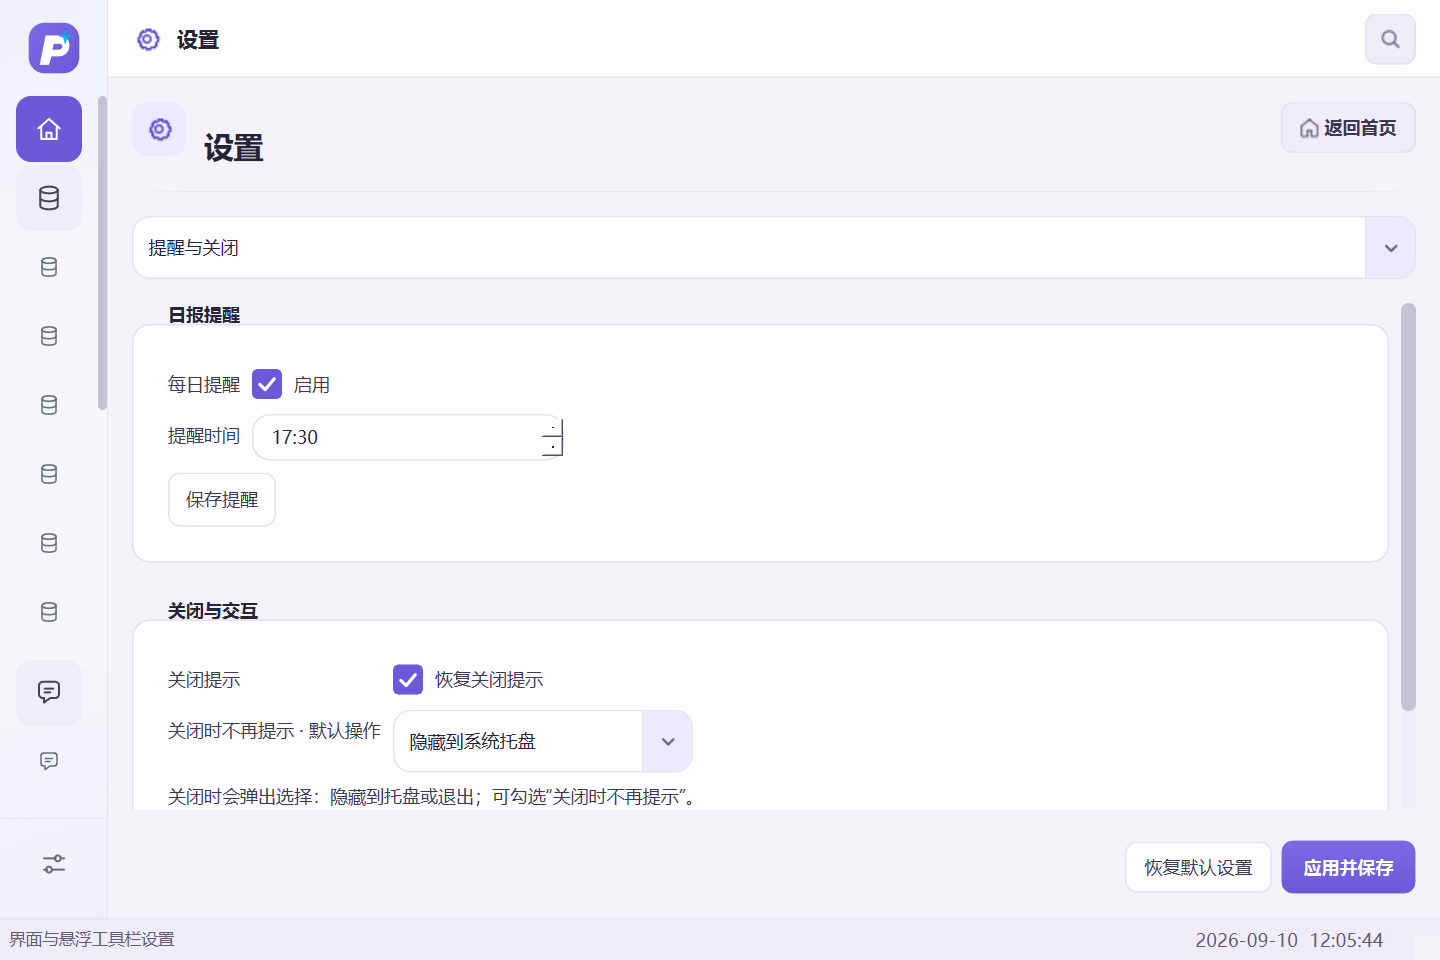
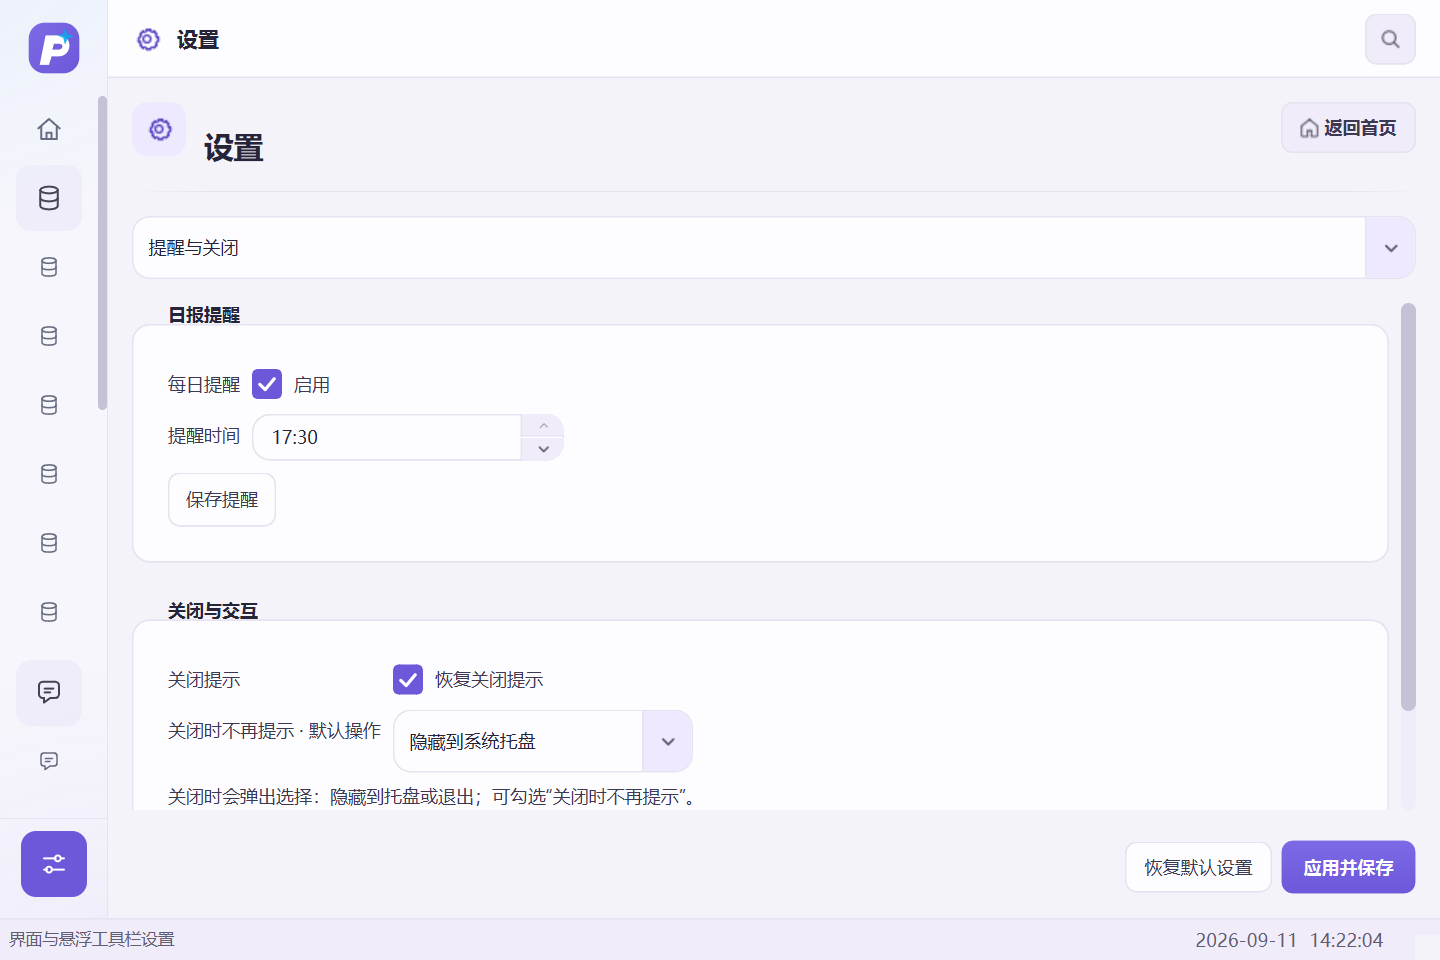
fix(ui): unify Prism model list and reminder time controls

diff --git a/docs/ui/prism-implementation-2026-09/shell/index.html b/docs/ui/prism-implementation-2026-09/shell/index.html
@@ -125,9 +125,9 @@ article[hidden]{display:none}@media(max-width:800px){main{grid-template-columns:
 <a href="nav-7-960-640-tab-1.png" target="_blank"><img src="nav-7-960-640-tab-1.png" loading="lazy" alt="设置 · 页签 2 960 × 640"></a>
 <div class="caption"><h2>设置 · 页签 2</h2><p>960 × 640 · 已记录网页就绪与选中状态</p>
 <a href="nav-7-960-640-tab-1.json" target="_blank">查看运行记录</a></div></article>
-<article data-label="模块 7 · 页签 3" data-checked="false">
-<a href="nav-7-960-640-tab-2.png" target="_blank"><img src="nav-7-960-640-tab-2.png" loading="lazy" alt="模块 7 · 页签 3 960 × 640"></a>
-<div class="caption"><h2>模块 7 · 页签 3</h2><p>960 × 640 · 旧采样：未核对网页就绪</p>
+<article data-label="设置 · 页签 3" data-checked="true">
+<a href="nav-7-960-640-tab-2.png" target="_blank"><img src="nav-7-960-640-tab-2.png" loading="lazy" alt="设置 · 页签 3 960 × 640"></a>
+<div class="caption"><h2>设置 · 页签 3</h2><p>960 × 640 · 已记录网页就绪与选中状态</p>
 <a href="nav-7-960-640-tab-2.json" target="_blank">查看运行记录</a></div></article>
 <article data-label="模块 7 · 页签 4" data-checked="false">
 <a href="nav-7-960-640-tab-3.png" target="_blank"><img src="nav-7-960-640-tab-3.png" loading="lazy" alt="模块 7 · 页签 4 960 × 640"></a>
@@ -137,6 +137,10 @@ article[hidden]{display:none}@media(max-width:800px){main{grid-template-columns:
 <a href="nav-7-960-640-tab-4.png" target="_blank"><img src="nav-7-960-640-tab-4.png" loading="lazy" alt="模块 7 · 页签 5 960 × 640"></a>
 <div class="caption"><h2>模块 7 · 页签 5</h2><p>960 × 640 · 旧采样：未核对网页就绪</p>
 <a href="nav-7-960-640-tab-4.json" target="_blank">查看运行记录</a></div></article>
+<article data-label="设置 · 页签 6 · 示例数据" data-checked="true">
+<a href="nav-7-960-640-tab-5-sample.png" target="_blank"><img src="nav-7-960-640-tab-5-sample.png" loading="lazy" alt="设置 · 页签 6 · 示例数据 960 × 640"></a>
+<div class="caption"><h2>设置 · 页签 6 · 示例数据</h2><p>960 × 640 · 已记录网页就绪与选中状态</p>
+<a href="nav-7-960-640-tab-5-sample.json" target="_blank">查看运行记录</a></div></article>
 <article data-label="模块 7 · 页签 6" data-checked="false">
 <a href="nav-7-960-640-tab-5.png" target="_blank"><img src="nav-7-960-640-tab-5.png" loading="lazy" alt="模块 7 · 页签 6 960 × 640"></a>
 <div class="caption"><h2>模块 7 · 页签 6</h2><p>960 × 640 · 旧采样：未核对网页就绪</p>

diff --git a/tests/test_prism_settings_navigation.py b/tests/test_prism_settings_navigation.py
@@ -12,6 +12,59 @@ class SettingsNavigationTests(unittest.TestCase):
         from PyQt6.QtWidgets import QApplication
         cls.app = QApplication.instance() or QApplication([])
 
+    def test_time_step_controls_and_model_selection_survive_theme_size(self):
+        from PyQt6.QtCore import Qt, QTime
+        from PyQt6.QtTest import QTest
+        from PyQt6.QtWidgets import QDateTimeEdit, QStyle, QStyleOptionSpinBox, QAbstractSpinBox
+        from config import DEFAULT_SETTINGS
+        from panels.settings_panel import SettingsPanel
+        from ui.theme_manager import ThemeManager
+        panel = SettingsPanel(dict(DEFAULT_SETTINGS))
+        try:
+            panel.resize(856, 528)
+            panel.apply_layout_mode('narrow', True)
+            panel.show()
+            for font in (13, 16):
+                ThemeManager.instance().apply(self.app, 'calm', font_size=font)
+                panel.section_picker.setCurrentIndex(2)
+                self.app.processEvents()
+                time = panel.reminder_time
+                time.setTime(QTime(17, 30))
+                time.setCurrentSection(QDateTimeEdit.Section.MinuteSection)
+                option = QStyleOptionSpinBox()
+                option.initFrom(time)
+                option.frame = True
+                option.buttonSymbols = time.buttonSymbols()
+                option.stepEnabled = QAbstractSpinBox.StepEnabledFlag.StepUpEnabled | QAbstractSpinBox.StepEnabledFlag.StepDownEnabled
+                up = time.style().subControlRect(QStyle.ComplexControl.CC_SpinBox, option, QStyle.SubControl.SC_SpinBoxUp, time)
+                down = time.style().subControlRect(QStyle.ComplexControl.CC_SpinBox, option, QStyle.SubControl.SC_SpinBoxDown, time)
+                self.assertTrue(time.rect().contains(up))
+                self.assertTrue(time.rect().contains(down))
+                QTest.mouseClick(time, Qt.MouseButton.LeftButton, pos=up.center())
+                self.assertEqual(time.time(), QTime(17, 31))
+                QTest.mouseClick(time, Qt.MouseButton.LeftButton, pos=down.center())
+                self.assertEqual(panel._current_reminder_time_text(), '17:30')
+                time.setEnabled(False)
+                QTest.mouseClick(time, Qt.MouseButton.LeftButton, pos=up.center())
+                self.assertEqual(time.time(), QTime(17, 30))
+                time.setEnabled(True)
+                panel.section_picker.setCurrentIndex(5)
+                panel._refresh_ai_list({'active_model_id': 'demo-a', 'items': [
+                    {'id': 'demo-a', 'name': '示例助手A', 'model': 'demo-one', 'enabled': False},
+                    {'id': 'demo-b', 'name': '示例助手B', 'model': 'demo-two', 'enabled': False},
+                ]})
+                panel.ai_list.setCurrentRow(1)
+                self.app.processEvents()
+                self.assertEqual(panel.ai_name.text(), '示例助手B')
+                self.assertEqual(panel.ai_model.currentText(), 'demo-two')
+                self.assertIn('示例助手B', panel.ai_list.currentItem().toolTip())
+                self.assertGreaterEqual(panel.ai_list.visualItemRect(panel.ai_list.currentItem()).height(), 36)
+                self.assertTrue(panel.save_btn.isVisible())
+        finally:
+            panel.close()
+            panel.deleteLater()
+            self.app.processEvents()
+
     def test_categories_preserve_edits_and_keep_save_visible_at_both_widths(self):
         from config import DEFAULT_SETTINGS
         from panels.settings_panel import SettingsPanel

diff --git a/scripts/diagnostics/prism_shell_preview.py b/scripts/diagnostics/prism_shell_preview.py
@@ -37,14 +37,19 @@ def main(args):
             # Navigate after both WebChannel pages are ready, as a real click
             # would; otherwise the initial chrome payload still selects home.
             window._show_panel(args.nav)
+            panel = window.stack.currentWidget()
             if args.tab is not None:
-                panel = window.stack.currentWidget()
                 if args.nav == 7:
                     panel.section_picker.setCurrentIndex(args.tab)
                 elif hasattr(panel, 'tabs'):
                     panel.tabs.setCurrentIndex(args.tab)
                 else:
                     raise ValueError('This preview page has no supported tab selector')
+            if args.sample and args.nav == 7:
+                panel._refresh_ai_list({'active_model_id': 'preview-a', 'items': [
+                    {'id': 'preview-a', 'name': '示例 · 日常助手', 'model': 'demo-chat', 'enabled': False},
+                    {'id': 'preview-b', 'name': '示例 · 文档校对', 'model': 'demo-review', 'enabled': False},
+                ]})
             window.resize(args.width, args.height)
             window._layout_controller.force(args.width, args.height)
             QTimer.singleShot(1000, inspect_chrome)
@@ -78,6 +83,9 @@ def main(args):
             name = f'nav-{args.nav}-{args.width}-{args.height}' + ('-collapsed' if args.collapsed else '')
             if args.tab is not None:
                 name += f'-tab-{args.tab}'
+            if args.sample and args.nav == 7:
+                name += '-sample'
+                result['sample'] = True
             window.grab().save(str(folder / (name + '.png')))
             (folder / (name + '.json')).write_text(json.dumps(result, ensure_ascii=False, indent=2), encoding='utf-8')
             print(json.dumps(result, ensure_ascii=False), flush=True)

diff --git a/panels/settings_panel.py b/panels/settings_panel.py
@@ -383,6 +383,7 @@ class SettingsPanel(QWidget):
             from PyQt6.QtWidgets import QTimeEdit
             from PyQt6.QtCore import QTime
             self.reminder_time = QTimeEdit()
+            self.reminder_time.setObjectName('settings-reminder-time')
             self.reminder_time.setDisplayFormat('HH:mm')
             size_field_height(self.reminder_time)
             self._reminder_uses_timeedit = True
@@ -505,6 +506,7 @@ class SettingsPanel(QWidget):
         self.ai_group.setProperty('settingsSectionCard', True)
         ai_outer = QVBoxLayout(self.ai_group)
         self.ai_list = QListWidget()
+        self.ai_list.setObjectName('settings-model-list')
         self.ai_list.setMaximumHeight(110)
         self.ai_list.currentItemChanged.connect(self._on_ai_item_changed)
         ai_outer.addWidget(self.ai_list)
@@ -878,6 +880,7 @@ class SettingsPanel(QWidget):
             mark = '★ ' if item.get('id') == data.get('active_model_id') else ''
             label = f"{mark}{item.get('name') or ''} · {item.get('model') or ''}"
             row = QListWidgetItem(label)
+            row.setToolTip(label)
             row.setData(Qt.ItemDataRole.UserRole, item)
             self.ai_list.addItem(row)
             if item.get('id') == current:

diff --git a/ui/theme_manager.py b/ui/theme_manager.py
@@ -396,12 +396,15 @@ class ThemeManager:
             from ui.icons import icon_url, tinted_icon_url
             dropdown_tint = palette.get('TEXT_MUTED') or palette.get('PRIMARY_ACTIVE') or '#8A8A90'
             arrow = tinted_icon_url('dropdown', dropdown_tint) or icon_url('dropdown')
+            up_arrow = tinted_icon_url('chevron-up', dropdown_tint) or icon_url('chevron-up')
             check = icon_url('check')
         except Exception:
             resource_dir = os.path.dirname(self._template_path) if self._template_path else ''
             arrow = os.path.join(resource_dir, 'chevron_down.svg').replace('\\', '/')
+            up_arrow = os.path.join(resource_dir, 'icons', 'chevron-up.svg').replace('\\', '/')
             check = os.path.join(resource_dir, 'check_white.svg').replace('\\', '/')
         qss = qss.replace('__DROPDOWN_ARROW__', arrow).replace('__CHECKMARK__', check)
+        qss = qss.replace('__SPIN_UP_ARROW__', up_arrow)
         try:
             from ui.icons import tinted_icon_url
             branch_tint = palette.get('PRIMARY_ACTIVE') or palette.get('TEXT_STRONG') or '#6C58D9'

diff --git a/scripts/diagnostics/prism_shell_gallery.py b/scripts/diagnostics/prism_shell_gallery.py
@@ -19,6 +19,8 @@ def main():
                         and row.get('bridge_ready_pages') == ['chrome', 'dashboard'])
         size = ' × '.join(map(str, row['window']))
         variant = f" · 页签 {row['tab'] + 1}" if 'tab' in row else ''
+        if row.get('sample'):
+            variant += ' · 示例数据'
         if row.get('collapsed'):
             variant += ' · 侧栏折叠偏好'
         status = '已记录网页就绪与选中状态' if verified else '旧采样：未核对网页就绪'

diff --git a/ui/icons.py b/ui/icons.py
@@ -26,6 +26,7 @@ ICON_FILES = {
     'app_legacy_ico': ('resources', 'app.ico'),
     'app_legacy_png': ('resources', 'app-icon.png'),
     'dropdown': ('resources', 'chevron_down.svg'),
+    'chevron-up': ('resources', 'icons', 'chevron-up.svg'),
     'chevron-right': ('resources', 'icons', 'chevron-right.svg'),
     'chevron-down-tree': ('resources', 'icons', 'chevron-down-tree.svg'),
     'check': ('resources', 'check_white.svg'),

diff --git a/docs/ui/prism-implementation-2026-09/STATUS.md b/docs/ui/prism-implementation-2026-09/STATUS.md
@@ -2,6 +2,16 @@
 
 更新：2026-09-11。这是进行中的实施记录，不是完整验收结论。
 
+## 2026-09-11 设置模型列表与提醒时间
+
+本批基于 `d60448b167a2350ce93ea63ea7ffcb8f30c59896`。模型配置列表接入统一圆角、行高、选中/悬停底色和禁用底色；长模型名称增加完整tooltip。提醒时间保留原QTimeEdit，整理内部编辑框和上下步进区，使用本地主题染色箭头，避免原生小方框与无可见箭头的混杂呈现。新增chevron-up资源遵守24×24、1.6线宽、currentColor规则，由ThemeManager注入QSS；不引入外部资源或新依赖。
+
+实际回归：`tests.test_prism_settings_navigation` 2项通过，其中新用例在13/16字体下点击真实步进区验证17:30→17:31→17:30，禁用时点击不改变值，两个示例模型的选择仍填入原表单；`tests.test_theme_responsive` 52项通过；`tests.test_prism_icons_brand` 最终16项通过。合计70项通过。初次图标检查指出硬编码颜色/线宽不符，已按规范修正后重跑通过。
+
+最新图：[提醒时间](shell/nav-7-960-640-tab-2.png)、[模型列表示例](shell/nav-7-960-640-tab-5-sample.png)。样例使用仅存在于诊断临时配置的两个禁用模型，不含URL/Token，不探测或保存真实配置。图片已查看，侧栏加载和选中DOM检查通过。图集已更新并区分示例数据。
+
+本批仅修改展示属性、QSS/图标及诊断/测试，没有改变模型配置切换、提醒保存、时间规则或执行逻辑。剩余工作台状态、子窗口、DPI与性能验收继续保留在完整目标中。
+
 ## 2026-09-11 侧栏采样根因与22入口重新核验
 
 本批基于 `32e480d625448a3be6d9676ce0e302f54fac0881`。已确认上一批诊断的等待条件不正确：`main_shell_renderer == web`只表示容器选中了网页控件，不能证明loadFinished和pageReady已经完成。探针可能提前导航，导致截图侧栏空白或初始首页选中。此次仅修改诊断脚本，等待既有 `_web_health.is_ready()` 的两页面loadFinished与bridge ready全部完成，然后导航、读取真实侧栏DOM，再保存截图。
